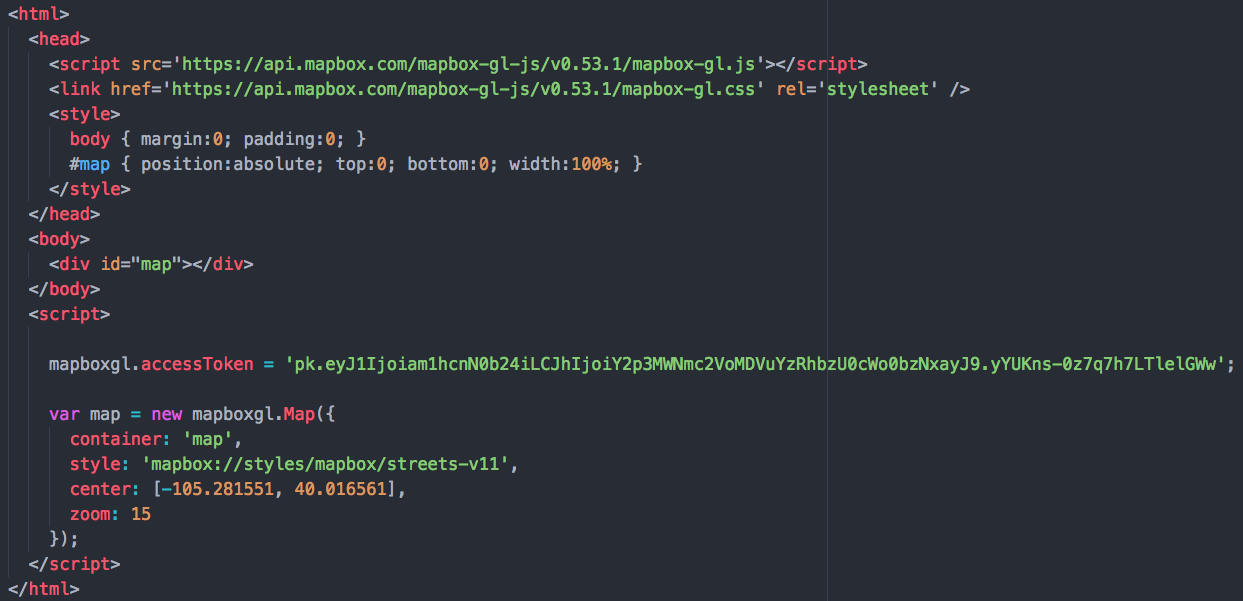
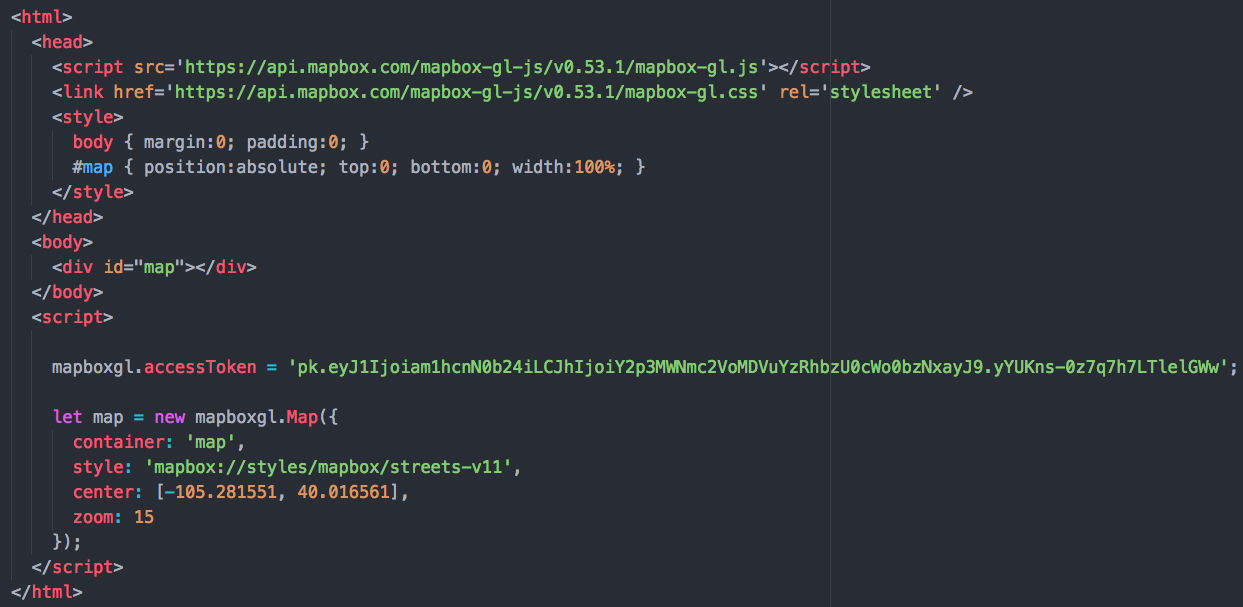
third slide, second map - change pitch, style, zoom, bearing

diff --git a/app/javascript/react/components/SlideThree.js b/app/javascript/react/components/SlideThree.js
@@ -1,0 +1,30 @@
+import React from 'react';
+import { Router, Route, IndexRoute, Link, browserHistory } from 'react-router';
+
+import MapTileTwo from './MapTileTwo'
+import CodeSnippetTwo from './CodeSnippetTwo'
+
+const SlideThree = props => {
+  return(
+    <div>
+      <div>
+        <div>
+          <MapTileTwo />
+        </div>
+        <div>
+          <CodeSnippetTwo />
+        </div>
+        <div className="bottom-nav">
+          <Link to='/map1'>
+            <span className="nav-span">Back to First Map</span>
+          </Link>
+          <Link to='/map3'>
+            <span className="nav-span action">Next Map (let's add some markers)</span>
+          </Link>
+        </div>
+      </div>
+    </div>
+  )
+}
+
+export default SlideThree;

diff --git a/app/views/homes/sample.html b/app/views/homes/sample.html
@@ -1,0 +1,25 @@
+
+<html>
+  <head>
+    <script src='https://api.mapbox.com/mapbox-gl-js/v0.53.1/mapbox-gl.js'></script>
+    <link href='https://api.mapbox.com/mapbox-gl-js/v0.53.1/mapbox-gl.css' rel='stylesheet' />
+    <style>
+      body { margin:0; padding:0; }
+      #map { position:absolute; top:0; bottom:0; width:100%; }
+    </style>
+  </head>
+  <body>
+    <div id="map"></div>
+  </body>
+  <script>
+
+    mapboxgl.accessToken = 'pk.eyJ1Ijoiam1hcnN0b24iLCJhIjoiY2p3MWNmc2VoMDVuYzRhbzU0cWo0bzNxayJ9.yYUKns-0z7q7h7LTlelGWw';
+
+    let map = new mapboxgl.Map({
+      container: 'map',
+      style: 'mapbox://styles/mapbox/streets-v11',
+      center: [-105.281551, 40.016561],
+      zoom: 15
+    });
+  </script>
+</html>

diff --git a/app/javascript/react/components/MapTileTwo.js b/app/javascript/react/components/MapTileTwo.js
@@ -1,6 +1,6 @@
 import React, { Component } from 'react';
 
-class MapTileOne extends Component {
+class MapTileTwo extends Component {
   constructor(props) {
     super(props)
 
@@ -12,9 +12,11 @@ class MapTileOne extends Component {
 
     let map = new mapboxgl.Map({
       container: 'map',
-      style: 'mapbox://styles/mapbox/streets-v11',
+      style: 'mapbox://styles/mapbox/dark-v10',
       center: [-105.281551, 40.016561],
-      zoom: 15
+      zoom: 17,
+      pitch: 60,
+      bearing: 20
     });
   }
 
@@ -28,4 +30,4 @@ class MapTileOne extends Component {
   }
 }
 
-export default MapTileOne;
+export default MapTileTwo;

diff --git a/app/javascript/react/components/app.js b/app/javascript/react/components/app.js
@@ -4,12 +4,14 @@ import { Router, Route, IndexRoute, browserHistory } from 'react-router';
 
 import SlideOne from './SlideOne'
 import SlideTwo from './SlideTwo'
+import SlideThree from './SlideThree'
 
 export const App = (props) => {
   return (
     <Router history={browserHistory}>
       <Route path='/' component={SlideOne} />
       <Route path='/map1' component={SlideTwo} />
+      <Route path='/map2' component={SlideThree} />
     </Router>
   )
 }

diff --git a/app/javascript/react/components/CodeSnippetTwo.js b/app/javascript/react/components/CodeSnippetTwo.js
@@ -1,0 +1,15 @@
+import React from 'react';
+import Snippet2 from '../../../assets/images/Snippet2.png';
+
+const CodeSnippetTwo = props => {
+  return(
+    <div id="code">
+      <h1 className="sub-head">Code</h1>
+      <div className="snippet">
+        <img src={Snippet2} alt="snippet2" />
+      </div>
+    </div>
+  )
+}
+
+export default CodeSnippetTwo;

diff --git a/app/javascript/react/components/SlideTwo.js b/app/javascript/react/components/SlideTwo.js
@@ -14,6 +14,11 @@ const SlideTwo = props => {
         <div>
           <CodeSnippetOne />
         </div>
+        <div>
+          <Link to='/map2' className="map-prompt">
+            <p>Next Map</p>
+          </Link>
+        </div>
       </div>
     </div>
   )

diff --git a/app/assets/stylesheets/application.css b/app/assets/stylesheets/application.css
@@ -69,3 +69,15 @@
   position: relative;
   margin-bottom: 60px;
 }
+
+.nav-span {
+  margin-left: 50px;
+}
+
+.bottom-nav {
+  margin-left: 80px;
+}
+
+.action {
+  font-size: 40px;
+}

diff --git a/config/routes.rb b/config/routes.rb
@@ -3,4 +3,5 @@ Rails.application.routes.draw do
   devise_for :users
 
   get 'map1', to: 'homes#index'
+  get 'map2', to: 'homes#index'
 end
